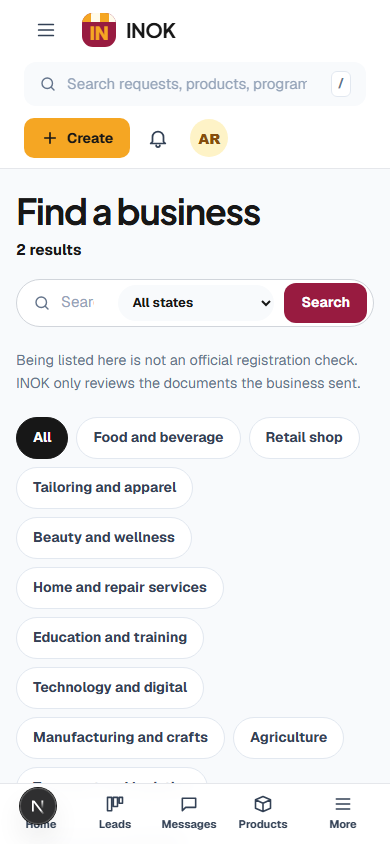
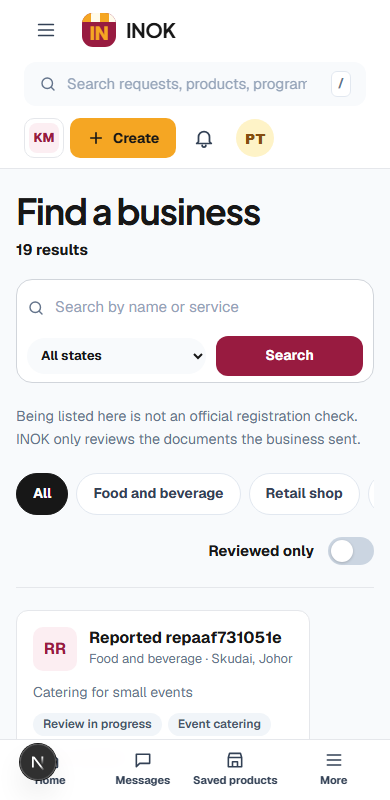
Redesign: phone layouts for Home and Directory search, scrolling category chips

diff --git a/platform/src/app/kit.css b/platform/src/app/kit.css
@@ -85,3 +85,18 @@
 .catalogue-card-title a:hover { color: var(--brand); }
 .catalogue-card .p5-price { color: var(--brand); }
 .catalogue-grid { grid-template-columns: repeat(auto-fill, minmax(min(100%, 17rem), 1fr)); }
+
+/* Phone width: Home search wraps (input on its own row, buttons below); Directory category chips scroll in one row instead of a tall wrapped block. */
+@media (max-width: 639px) {
+  .home-search { flex-wrap: wrap; padding: 8px 10px; }
+  .home-search input { flex: 1 1 calc(100% - 44px); }
+  .home-search .btn { flex: 1 1 40%; white-space: nowrap; }
+  .dir-search { flex-wrap: wrap; border-radius: 16px; padding: 6px 10px; row-gap: 6px; }
+  .dir-search input[type="search"] { flex: 1 1 calc(100% - 40px); }
+  .dir-search select { flex: 1 1 8rem; }
+  .dir-search .btn { flex: 1 1 6rem; }
+  .dir-filters .fchip-row { flex-wrap: nowrap; overflow-x: auto; max-width: 100%; padding-bottom: 6px; scroll-snap-type: x proximity; -webkit-overflow-scrolling: touch; }
+  .dir-filters .fchip { flex: none; scroll-snap-align: start; white-space: nowrap; }
+  .dir-filters { flex-wrap: wrap; }
+  .dir-filters nav { width: 100%; }
+}
